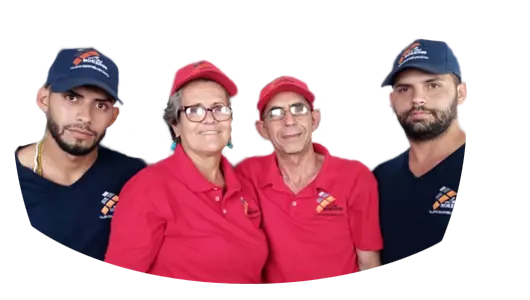
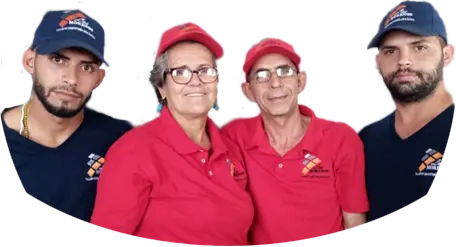
terminé de arreglar todo el risponsiv

diff --git a/style.css b/style.css
@@ -16,13 +16,14 @@ html{
 h1{
     font-size: 4rem;
     text-align: center;
-    text-shadow: 0 .2rem 0.4rem rgba(0, 0, 0, 0.884);
+    text-shadow: 0 0rem 0.4rem rgba(0, 0, 0, 0.637);
     color: rgb(206, 193, 193);
   
 }
 .hero h2{
     color: rgb(206, 193, 193);
     margin-bottom: 0;
+    text-shadow: 0 .2rem 0.8rem rgba(0, 0, 0, 0.692);
 }
 h2{
     font-size: 3rem;
@@ -35,6 +36,13 @@ h3{
     font-size: 2rem;
     text-align: center;
     margin-bottom: 1rem;
+}
+.title{
+    display: flex;
+    flex-direction: column;
+    margin: 0 .5rem;
+   
+
 }
 
 p{
@@ -58,23 +66,32 @@ p{
     position: fixed;
     right: 0;
     justify-content: space-between;
+    z-index: 10;
 }
 
 
 
 .logo {
     width: 20%;
+    max-width: 80px;
     background-color: rgb(100, 99, 99);
     border-radius: 50%;
+    margin: 0 1rem;
+}
+.logo img{
+    width: 100%;
+    
 }
 
+
 .enlaces{
-    width: 100%;
+    width: 70%;
+    margin: 0 2rem;
 }
 .enlaces_lis{
     height: 100%;
     display: grid;
-    grid-template: 1fr / 1fr 1fr 1fr 1fr ;
+    grid-template: 1fr / 0 1fr 1fr 1fr 1fr ;
 }
 .enlaces_lis li{
     display: flex;
@@ -94,34 +111,43 @@ p{
     color: rgb(212, 195, 168);
 }
 
-.logo img{
-    width: 100%;
+.hero{
+    padding:  6rem 1rem 1rem;
+    background-color: #b4be84;
+    
 }
-
-.hero {
-   
-    display: flex;
-    flex-direction: column;
-    background-color: #f1f0ee;
-   
+.carrussell {
+    display: grid;
+    grid-template: auto auto / 1fr ; 
 }
 
 .family{
     width: 100%;
-    display: flex;
-    justify-content: center;
-    margin: auto;
+    max-width: 450px;
+    align-self: center;
+    justify-self: center;
+    /* display: grid;
+    grid-template: auto / 1fr ;  */
+    /* padding: auto 1rem; */
+    /* display: flex;
+    justify-content: center; */
+    
+    /* margin: auto; */
 }
 
 .img_members{
     width: 100%;
-    margin-top: 2rem;
-    margin-left: 3rem;
+    margin: auto;
+    align-self: center;
+    /* margin-left: 3rem; */
 }
 
 
 /* /////////////////main///////////////////// */
-
+/* .conten_global{
+    position: relative;
+    top: -.2rem;
+} */
 .relleno_fixe{
     height: 13rem;
 }
@@ -243,12 +269,35 @@ footer{
 
 /* /////////////////responsive///////////////////// */
 @media (min-width: 430px){
-    .container_header{
+    .enlaces{
+        width: 80%;
+        /* padding: 0 2rem; */
+        margin: 0;
+    }
+  
+    .enlaces_lis li{
+        justify-self: center;
+    }
+    .enlaces_lis a{
+        font-size: 1.7rem; 
+    }
+    .logo {
+        margin: 0 2rem;
+        width: 15.5%;
+    }
+    .hero {
         display: grid;
-        grid-template: 10rem 3rem / .3fr 20% 1fr ;
-        grid-template-areas:
-        "logo logo family"
-        "logo logo enlaces";
+        grid-template: auto / 1fr 1fr;
+    }
+    .title{
+        margin: .5rem .5rem;
+        align-self: center;
+        
+    }
+    .carrussell {
+        display: grid;
+        grid-template: auto / 1fr ; 
+        align-content: center;
     }
     .soldar{
         width: 80%;
@@ -289,18 +338,21 @@ footer{
         align-items:  center;
     }
 }
+@media (min-width: 550px){
+  .enlaces_lis{
+        grid-template: 1fr / 2fr 1fr 1fr 1fr 1fr ; 
+    }
+}
 @media (min-width: 800px){
-    .container_header{
-        display: grid;
-        grid-template: 13rem /1fr 1fr 1fr 1fr ;
-        grid-template-areas:
-        "logo family family enlaces";
-    }
     .enlaces{
-        display: flex;
-        align-items: flex-end;
-        padding: 3rem;
+        width: 40%;
+        padding: 0 2rem;
     }
+    .enlaces li{
+        margin: .3rem;
+    }
+   
+   
     .conten_global{
         max-width: 1100px;
         margin: auto;

diff --git a/index.html b/index.html
@@ -20,6 +20,9 @@
             <nav class="enlaces">
             <ul class="enlaces_lis" id="nav">
                 <li>
+                    
+                </li>
+                <li>
                     <a href="#Servicios">Servicios</a>
                 </li>
                 <li>
@@ -38,11 +41,15 @@
 
 
         <div class="hero">
-            <figure class="family">
-                <img class=" img_members" src="./img/LosMorenos.webp" alt="familia">
-            </figure>
-            <h1>"Los Moreno"</h1>
-            <h2>Reparadores de Plástico a la orden</h2>
+            <div class="carrussell">
+                <figure class="family">
+                    <img class=" img_members" src="./img/LosMorenos.webp" alt="familia">
+                </figure>
+            </div>
+            <div class="title">
+                <h1>"Los Moreno"</h1>
+                <h2>Reparadores de Plástico a la orden</h2>
+            </div>
         </div>
 
             
